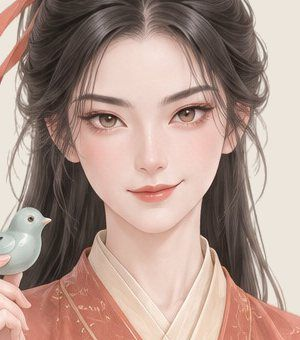
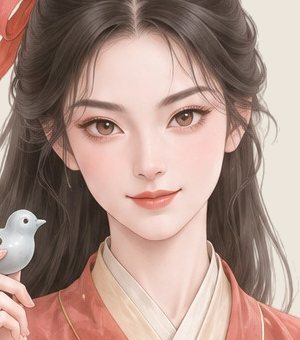
Lượt 737 Sắc sảo: c06/c19 redraw (approved v5 prompt re-run) + 7 new people s39–s45; face map, groups, crops, ledger, sheet sacsao_L737.jpg
Claude-Session: https://claude.ai/code/session_01PEhRbxQAS4sqEvJjdStdLX

diff --git a/dev/art/face-common/make_sacsao_L737.py b/dev/art/face-common/make_sacsao_L737.py
@@ -1,0 +1,71 @@
+#!/usr/bin/env python3
+"""Owner Lượt 737: Sắc sảo +7 NEW people s39–s45 (Tinh nghịch + Tươi tắn dropped to Kho).
+Exactly the NF4 method (make_nf4.py line() recipe, approved Sắc sảo v5 block as for s07–s09, EYES_STRAIGHT, strong
+closed-mouth sentence, no "phoenix" eye words). Each person: own face swaps, hair, outfit, two colours (medium tone), item, angle.
+c06 / c19 redraw (Lượt 737) = re-run of the approved c06.v5 / c19.v5 prompts unchanged (A13) — this script does not touch them.
+make_nf4.py is loaded read-only (its file writes are swallowed). Run: python3 dev/art/face-common/make_sacsao_L737.py"""
+import os, io, builtins
+D = os.path.dirname(os.path.abspath(__file__))
+_open = builtins.open
+def _ro_open(p, mode='r', *a, **k):
+    if 'w' in mode or 'a' in mode: return io.StringIO()
+    return _open(p, mode, *a, **k)
+NS = {'__file__': os.path.join(D, 'make_nf4.py'), 'open': _ro_open, 'print': lambda *a, **k: None, '__name__': 'nf4'}
+exec(_open(os.path.join(D, 'make_nf4.py')).read(), NS)
+line, ss_face, SS, EYES_STRAIGHT, C, OLD_MOUTH, NEW_MOUTH = (NS[k] for k in "line ss_face SS EYES_STRAIGHT C OLD_MOUTH NEW_MOUTH".split())
+
+S737 = [
+("s39", 18, [("clearly DEFINED OVAL face", "clearly DEFINED, slightly WIDE OVAL face, a broad smooth forehead,"),
+             ("STRAIGHT, sharp, clearly defined brows", "thick STRAIGHT, sharp, clearly defined brows")],
+ "half-up: the top hair coiled into a neat flat bun at the back of the head held by one gold hairpin pointing upward, the rest long and straight behind",
+ "a light open beizi of soft saffron-amber silk satin with a soft sheen over a cross-collar smoky-teal inner top and a smoky-teal floor-length skirt of plain silk, small embroidered chrysanthemums along the front edges, a smoky-teal silk sash with a small amber pendant, long sleeves",
+ C("soft saffron amber", 38, .52, .55), C("smoky teal", 190, .40, .30),
+ "standing upright with her weight on one leg, a slim writing brush held upright between two fingers at chest height as if about to write a sharp reply, the other hand at her sash", "SR"),
+("s40", 17, [("clearly DEFINED OVAL face", "clearly DEFINED, narrow V-shaped OVAL face"),
+             ("a slim straight nose with a fine high bridge and a neat tip", "a slim nose with a fine high bridge and a small rounded tip")],
+ "fully loose and very long, sleek and straight, parted on the left side, a thin ribbon in her secondary colour tied at the back of the head",
+ "a cross-collar ruqun of soft cerulean-blue silk satin with a soft sheen and a pale-apricot floor-length skirt of plain silk, small embroidered swallows at the collar and hem, a pale-apricot silk sash with a small blue jade pendant, long sleeves",
+ C("soft cerulean blue", 205, .48, .45), C("pale apricot", 25, .84, .40),
+ "walking with poise mid-step, a small bronze key on a red silk cord held up in one hand at chest height, the other sleeve flowing", "TL"),
+("s41", 18, [("clearly DEFINED OVAL face", "clearly DEFINED, slightly SQUARE OVAL face, a firm jaw angle,"),
+             ("well-defined lips with a crisp clear cupid's bow", "wide well-defined lips with a crisp clear cupid's bow")],
+ "high half-up: the top hair in one tall single loop at the crown held by one silver hairpin pointing upward, the rest long and straight behind",
+ "a cross-collar ruqun of soft olive-green silk satin with a soft sheen and a pale gold-beige floor-length skirt of plain silk, small embroidered ginkgo leaves at the collar and hem, a pale gold-beige silk sash with a small green jade pendant, long sleeves",
+ C("soft olive green", 75, .40, .35), C("pale gold beige", 38, .80, .30),
+ "standing upright with her weight on one leg, a closed thread-bound book held against her waist in one hand with one finger marking a page, the other hand at her sash", "FF"),
+("s42", 18, [("CRISP long almond eyes", "CRISP, slightly smaller deep-set almond eyes"),
+             ("clearly DEFINED OVAL face", "clearly DEFINED LONG OVAL face, a long lower face,")],
+ "loose and long, swept forward over the left shoulder, the right side pinned back with a small silver comb",
+ "a light open beizi of soft raspberry-magenta silk satin with a soft sheen over a cross-collar pale-mint inner top and a pale-mint floor-length skirt of plain silk, small embroidered magnolias along the front edges, a pale-mint silk sash with a small white jade pendant, long sleeves",
+ C("soft raspberry magenta", 335, .45, .45), C("pale mint", 155, .82, .25),
+ "walking forward with poise mid-step, a single long-stemmed white magnolia blossom held upright at chest height in one hand, the other sleeve flowing", "ST"),
+("s43", 17, [("clearly DEFINED OVAL face", "clearly DEFINED HEART-OVAL face, a wide forehead,"),
+             ("STRAIGHT, sharp, clearly defined brows", "short STRAIGHT, sharp, clearly defined brows")],
+ "fully loose and very long, straight, parted in the centre, the hair at both temples drawn back and fastened at the back of the head with one small jade hairpin",
+ "a cross-collar ruqun of soft sapphire-blue silk satin with a soft sheen and a pale lemon-cream floor-length skirt of plain silk, small embroidered cloud scrolls at the collar and hem, a pale lemon-cream silk sash with a small lapis pendant, long sleeves",
+ C("soft sapphire blue", 220, .42, .48), C("pale lemon cream", 50, .86, .40),
+ "standing upright with her weight on one leg, a slim bamboo-slip scroll held half-open in both hands at her waist as if checking a record", "SL"),
+("s44", 18, [("clearly DEFINED OVAL face", "clearly DEFINED DIAMOND-OVAL face, widest at the cheekbones,"),
+             ("well-defined lips with a crisp clear cupid's bow", "thin well-defined lips with a crisp clear cupid's bow")],
+ "half-up: two thin twists from the temples joined at the back of the head under one small gold hairpin pointing upward, the rest long and sleek",
+ "a light open beizi of soft burnt-sienna silk satin with a soft sheen over a cross-collar sage-grey inner top and a sage-grey floor-length skirt of plain silk, small embroidered pomegranate flowers along the front edges, a sage-grey silk sash with a small carnelian pendant, long sleeves",
+ C("soft burnt sienna", 15, .45, .45), C("sage grey", 120, .66, .12),
+ "walking with poise mid-step, a small red pomegranate held in one hand at her waist, the other sleeve flowing", "TR"),
+("s45", 17, [("CRISP long almond eyes", "CRISP large almond eyes"),
+             ("a slim straight nose with a fine high bridge", "a straight nose with a slightly arched high bridge"),
+             ("clearly DEFINED OVAL face", "clearly DEFINED TEARDROP-OVAL face")],
+ "fully loose and very long, sleek, straight side locks framing the cheeks, one small pearl hairpin at the crown pointing upward",
+ "a cross-collar ruqun of soft aubergine-purple silk satin with a soft sheen and a pale-gold floor-length skirt of plain silk, small embroidered cranes at the collar and hem, a pale-gold silk sash with a small amethyst pendant, long sleeves",
+ C("soft aubergine purple", 290, .40, .32), C("pale gold", 45, .76, .40),
+ "standing upright with her weight on one leg, a small embroidered silk sachet held up by its red cord in one hand at chest height, the other hand at her sash", "SR"),
+]
+out = {}
+for sid, age, sw, hair, outfit, (mn, mh), (sn, sh), pose, ak in S737:
+    face = ss_face(sw) + ". " + EYES_STRAIGHT[:-1]
+    assert "phoenix" not in face.lower(), sid
+    v = line(age, face, SS["expr"], hair, outfit, mn, mh, sn, sh, pose, ak)
+    assert v.count(OLD_MOUTH) == 1, sid
+    out[f"{sid}.v5"] = v.replace(OLD_MOUTH, NEW_MOUTH)
+for k, v in out.items():
+    _open(os.path.join(D, f'{k}.FULL.txt'), 'w').write(v)
+    print(f"== {k}\n{v}\n")

diff --git a/dev/art/face-common/LOOK_GROUPS.md b/dev/art/face-common/LOOK_GROUPS.md
@@ -79,3 +79,4 @@ File máy đọc: dev/art/face-common/OWNER_GROUPS_L686.json
 - Tick page picks: c06 and c19 (Sắc sảo) = redraw.
 - Lượt 738 (owner): the 22 dropped Tinh nghịch + Tươi tắn people are NOT Kho: they become the CÔNG CHÚA group (the emperor's daughters / consorts' children in the game; later they also need adult and child pictures). JSON value "Công chúa (Tinh nghịch)" / "Công chúa (Tươi tắn)". People: c01 c03 c07 c09 c12 c13 c15 c18 c21 c24 c25 c30 m01 m03 m05 m06 m07 m11 m12 m24 m25 m30. NOTE: m05 (Nữ đế / ma ma / Thái hậu sample person) is in this group.
 - Lượt 739 (owner): m05 (the Nữ đế / Thái hậu face) STAYS a consort face → moved to Đoan trang. Công chúa group = 21 people (m05 removed).
+- Lượt 737 Sắc sảo DONE (ROOT-56 subagent): c06 redraw (c06.v5 re-run unchanged, A13) → cut hu24KgZvqL (was rgXcT8Jxtc); c19 redraw (c19.v5 re-run) → cut hu24KS2vqL (was gOmpdCcSXO). NEW Sắc sảo s39–s45 (make_sacsao_L737.py → sNN.v5): s39 eIPgu6IdqL (saffron amber + smoky teal), s40 kseWy8L16B (cerulean blue + pale apricot), s41 u5WRlMfQLD (olive green + pale gold beige), s42 tCRyKn2mZJ (raspberry magenta + pale mint), s43 79foGqDJAL (sapphire blue + pale lemon cream), s44 79foGbpJAL (burnt sienna + sage grey), s45 kseWyhP16B (aubergine purple + pale gold). Sắc sảo = 18. Sheet: dev/handover/review-sheets/new-faces-v4/sacsao_L737.jpg.
